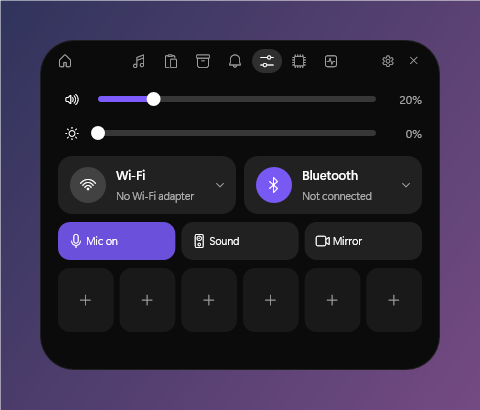
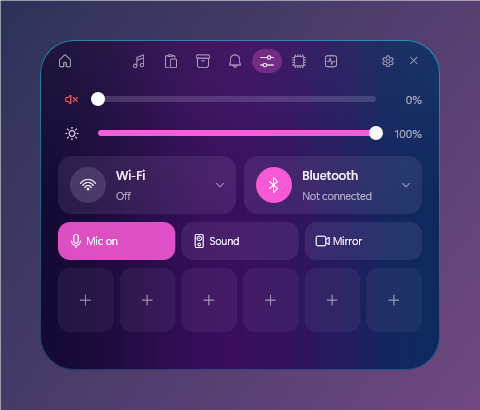
New README screenshots

diff --git a/README.md b/README.md
@@ -3,12 +3,12 @@
 **A small floating pill at the top of your screen that opens into a card with your music, clipboard, reminders and PC controls.** Pillbox is a free, private Windows 10 and 11 app in the spirit of the iPhone's Dynamic Island. Rest the mouse on the pill and it springs open; move away and it closes. A simple installer, nothing sent to anyone, and almost no CPU use.
 
 <p align="center">
-  <img src="docs/images/home-widgets.png" alt="The open Pillbox card on the Home tab with a clock, focus timer, battery, PC stats and year progress" width="420">
+  <img src="docs/images/home-widgets.png" alt="The open Pillbox card in the Aurora theme on the Home tab: a 24-hour day clock, focus timer, battery, PC stats and year progress" width="420">
   &nbsp;&nbsp;
-  <img src="docs/images/pill-states.png" alt="The closed pill showing the time, a short notice, and the song that is playing" width="270">
+  <img src="docs/images/pill-states.png" alt="The closed pill as a clock in the Aurora theme, as the notice Pillbox is running in Golden hour, and as a music player tinted with the song's cover colours" width="270">
 </p>
 
-<p align="center"><sub>Left: the open card. Right: the closed pill as a clock, as a short notice, and as a tiny music player. The screenshots use demo data.</sub></p>
+<p align="center"><sub>Left: the open card. Right: the closed pill as a clock, as a short notice, and as a tiny music player. Every screenshot uses demo data and a different theme.</sub></p>
 
 **In short:**
 
@@ -71,7 +71,7 @@ Pillbox never opens a window of its own and has no taskbar button; it lives in t
 
 The closed pill is not just a clock. It shows the time, or a tiny music player (title, a live equalizer, the cover colours), or a short notice: microphone muted, Caps Lock on, a call timer, a screenshot saved, a reminder ringing, a new notification.
 
-<p align="center"><img src="docs/images/pill-states.png" alt="Three closed-pill states: the time, the notice 'Screenshot saved', and a song title with an equalizer" width="270"></p>
+<p align="center"><img src="docs/images/pill-states.png" alt="Three closed-pill states: the time, the notice Pillbox is running, and a song title with an equalizer" width="270"></p>
 
 ---
 
@@ -81,25 +81,27 @@ The closed pill is not just a clock. It shows the time, or a tiny music player (
 
 A grid of small tiles you choose in Settings: **clock**, **world clocks**, **day clock** (24-hour dial with sunrise and sunset), **weather**, **next reminders**, **sun and moon**, **to-do list**, **quick note**, **calculator**, **focus timer**, **countdown**, **day and year progress**, **battery**, **screen time**, **play time**, **PC stats**, **photos**, and (only if you switch online widgets on) ping, website status, currency rates and air quality.
 
-<p align="center"><img src="docs/images/home-widgets.png" alt="The Home tab with a clock dial, focus timer, battery, PC stats and year progress tiles" width="420"></p>
+<p align="center"><img src="docs/images/home-widgets.png" alt="The Home tab in the Aurora theme with a day clock, focus timer, battery, PC stats and year progress" width="420"></p>
 
 Drag a widget out with its small corner button and it **pops out onto the desktop** as its own floating tile (right-click it to close).
 
 **Weather.** With the *detailed* weather look (Settings > Home & widgets), **click the Weather tile to expand it**: today's temperatures from 6:00 to 21:00 appear as a small curve (the hour you are in is highlighted), and below them the next five days, each with the weekday, the weather, the high and low and the chance of rain.
 
+<p align="center"><img src="docs/images/weather.png" alt="The Weather tile expanded in the Midnight theme: now 5 degrees and overcast, a curve of today's temperatures from 6:00 to 21:00, and five day cards from Monday to Friday" width="420"></p>
+
 **Play time.** Time spent in *games* is counted per game and per day (the last 60 days, kept only on your PC). Well-known games such as Roblox, Minecraft, Fortnite, Valorant or THE FINALS count whenever they are the app in front, in a window too, and show under their real name. Other games count while they run full screen. **Click the Play time tile to expand it**: it shows a chip for each of the last 7 days and, for the day you pick, every game you played with how long and a bar to compare them. Only games are counted: browsers, video players, Steam and other launchers, Discord and similar are ignored.
 
 <p align="center">
-  <img src="docs/images/home.png" alt="The Play time tile closed: 1h 55m today, week 7h 20m, most played Elden Ring" width="340">
+  <img src="docs/images/home.png" alt="The Play time tile closed in the Deep sea theme: today's time, this week's total and the most played game" width="340">
   &nbsp;
-  <img src="docs/images/play-time.png" alt="The Play time tile expanded: a chip for each day and the games played that day with bars" width="340">
+  <img src="docs/images/play-time.png" alt="The Play time tile expanded: a chip for each day and the games played that day, such as Roblox and Minecraft, with bars" width="340">
 </p>
 
 ### Music
 
 Shows what is playing in **any** player (Spotify, YouTube in a browser, VLC...): cover, title, artist, a progress bar you can click or drag, previous, play/pause, next. Five progress-bar looks (line, bar, dots, wave, segments) and a live equalizer in the pill.
 
-<p align="center"><img src="docs/images/music.png" alt="The Music tab: cover, title and controls on the left, synced lyrics scrolling on the right" width="560"></p>
+<p align="center"><img src="docs/images/music.png" alt="The Music tab glowing in the cover's colours: cover, title and controls on the left, synced lyrics on the right" width="560"></p>
 
 - **Synced lyrics** (Settings > Music, off by default): lyrics scroll in time with the song on the right of the card. Scroll the wheel over them to look around and press **Return to live** to come back; pauses in the song show as three dots. Lyrics come from the free LRCLIB service and are cached.
 - The **colours** of the card and the closed pill follow the cover, and the card's background glow reacts to the bass, middle and treble of what you hear.
@@ -108,19 +110,19 @@ Shows what is playing in **any** player (Spotify, YouTube in a browser, VLC...):
 
 A history of what you copied (text, links, pictures, files), searchable, with **pin**, **copy back**, **delete**, and **text from pictures** (it reads the words in a screenshot). Stored encrypted for your Windows account. Text snippets you save are one click away. Anything a password manager marks as secret is not recorded, you can list apps to ignore, and unpinned copies are **deleted after 2 days**. Pinned items and snippets stay.
 
-<p align="center"><img src="docs/images/clipboard.png" alt="The Clipboard tab: a search box, filters (All, Text, Links, Pictures, Files, Pinned, Snippets) and a list of recent copies" width="420"></p>
+<p align="center"><img src="docs/images/clipboard.png" alt="The Clipboard tab in the Violet theme: a search box, filters and a list of recent copies, one of them pinned" width="420"></p>
 
 ### Shelf
 
 Drop files on the pill to keep them on a **shelf**, then drag them out into any other app later. New screenshots land here too. Right-click a file for more (open, open with..., show in folder, send to your phone, remove).
 
-<p align="center"><img src="docs/images/shelf.png" alt="The Shelf tab with five files: a spreadsheet, a text file, a PDF, a zip and a screenshot" width="420"></p>
+<p align="center"><img src="docs/images/shelf.png" alt="The Shelf tab in the Forest theme with five files: a spreadsheet, a text file, a PDF, a zip and a screenshot" width="420"></p>
 
 ### Reminders
 
 Type for example "call mum at 18:30", "in 10m tea", "tomorrow 15:00 dentist" or "weekdays 9:00 stand-up" and press Enter. Reminders ring on the pill with the Windows alarm sound; snooze or mark done right there.
 
-<p align="center"><img src="docs/images/reminders.png" alt="The Reminders tab: a quick-add box and four reminders, two of them repeating" width="420"></p>
+<p align="center"><img src="docs/images/reminders.png" alt="The Reminders tab in the Sunset theme: a quick-add box and four reminders, two of them repeating" width="420"></p>
 
 ### Controls
 
@@ -132,19 +134,19 @@ Type for example "call mum at 18:30", "in 10m tea", "tomorrow 15:00 dentist" or 
 - A line with a timer and a **Mute** button while any app is using your microphone (a call).
 - Six **launcher** slots: put your favourite apps there.
 
-<p align="center"><img src="docs/images/controls.png" alt="The Controls tab: volume and brightness sliders, Wi-Fi and Bluetooth cards, Mic, Sound and Mirror buttons, and six empty launcher slots" width="420"></p>
+<p align="center"><img src="docs/images/controls.png" alt="The Controls tab in the Midnight neon theme: volume and brightness sliders, Wi-Fi and Bluetooth cards, Mic, Sound and Mirror buttons, and launcher slots" width="420"></p>
 
 ### System
 
 One card each for **CPU**, **GPU**, **memory**, **disk activity**, **network speed** and **battery**. You can also open the same cards as a separate floating window from the tray menu.
 
-<p align="center"><img src="docs/images/system.png" alt="The System tab: six cards for CPU, GPU, RAM, disk, network and battery" width="560"></p>
+<p align="center"><img src="docs/images/system.png" alt="The System tab in the Ocean theme: cards for CPU, GPU, RAM, disk, network and battery" width="560"></p>
 
 ### Activity (coding assistants)
 
 For people who use **Claude Code** or **Codex**: shows what each assistant is doing in each session (working, waiting for you, finished), your usage limits, and lets you **Allow** or **Deny** a permission question right on the pill. Connecting an assistant is explicit and never automatic: see the command-line helper in [docs/REFERENCE.md](docs/REFERENCE.md) (`pillboxctl hooks claude --apply`).
 
-<p align="center"><img src="docs/images/activity.png" alt="The Activity tab: a Claude Code card saying Needs you, and three sessions (waiting, working, done)" width="420"></p>
+<p align="center"><img src="docs/images/activity.png" alt="The Activity tab in the Lava theme: a Claude Code card saying Needs you, and three sessions (waiting, working, done)" width="420"></p>
 
 ### Notifications
 
@@ -166,9 +168,9 @@ When a game runs full screen Pillbox can **hide**, shrink into a thin **stats st
 
 You can change how Pillbox looks without touching any code: many **surfaces** (black, graphite, glass, soft colours), **colour schemes** for the pill and the card, a placement on the **top, left or right** edge, and a **size** from 80% to 140%.
 
-<p align="center"><img src="docs/images/themes.png" alt="The Home tab in four colour schemes: Ocean, Forest, Sunset and Violet" width="900"></p>
+<p align="center"><img src="docs/images/themes.png" alt="The Home tab in four colour schemes: Ember, Mono, Cotton candy and Forest mist" width="900"></p>
 
-<p align="center"><sub>The same Home tab in Ocean, Forest, Sunset and Violet.</sub></p>
+<p align="center"><sub>The same Home tab in Ember, Mono, Cotton candy and Forest mist.</sub></p>
 
 The colour schemes come in two kinds. Seven are **one colour** (Midnight, Ocean, Forest, Sunset, Violet, Ember, Mono). Eight are **fades** of several colours: Aurora, Golden hour, Deep sea, Midnight neon, Forest mist, Lava, Mono fade and Cotton candy. Three of the fades **move gently**: Aurora and Lava drift slowly and Midnight neon shimmers now and then. They stand still when Pillbox is hidden, while a game is full screen, or when you switch **Animate backgrounds** off.
 
@@ -198,9 +200,9 @@ Open **Settings** from the gear (or the tray icon). It is a normal window with e
  Every change is **saved automatically** a moment after you make it and Pillbox applies it at once. Nothing needs an OK button. **About > Reset all settings** puts everything back (your clipboard history, reminders and shelf are kept).
 
 <p align="center">
-  <img src="docs/images/settings-appearance.png" alt="Settings, Appearance page: a grid of surfaces to pick from, such as Black, Graphite, Liquid Glass and Peach" width="440">
+  <img src="docs/images/settings-appearance.png" alt="Settings, Appearance page: the app themes as picture cards, Golden hour selected" width="440">
   &nbsp;
-  <img src="docs/images/settings-widgets.png" alt="Settings, Widgets page: the list of Home widgets in order, and buttons to add more" width="440">
+  <img src="docs/images/settings-widgets.png" alt="Settings, Home and widgets page: the list of Home widgets in order, and buttons to add more" width="440">
 </p>
 
 Settings are stored in the file `%APPDATA%\Pillbox\settings.json` (type that into the Explorer address bar). You can edit it by hand; Pillbox picks the change up immediately.
